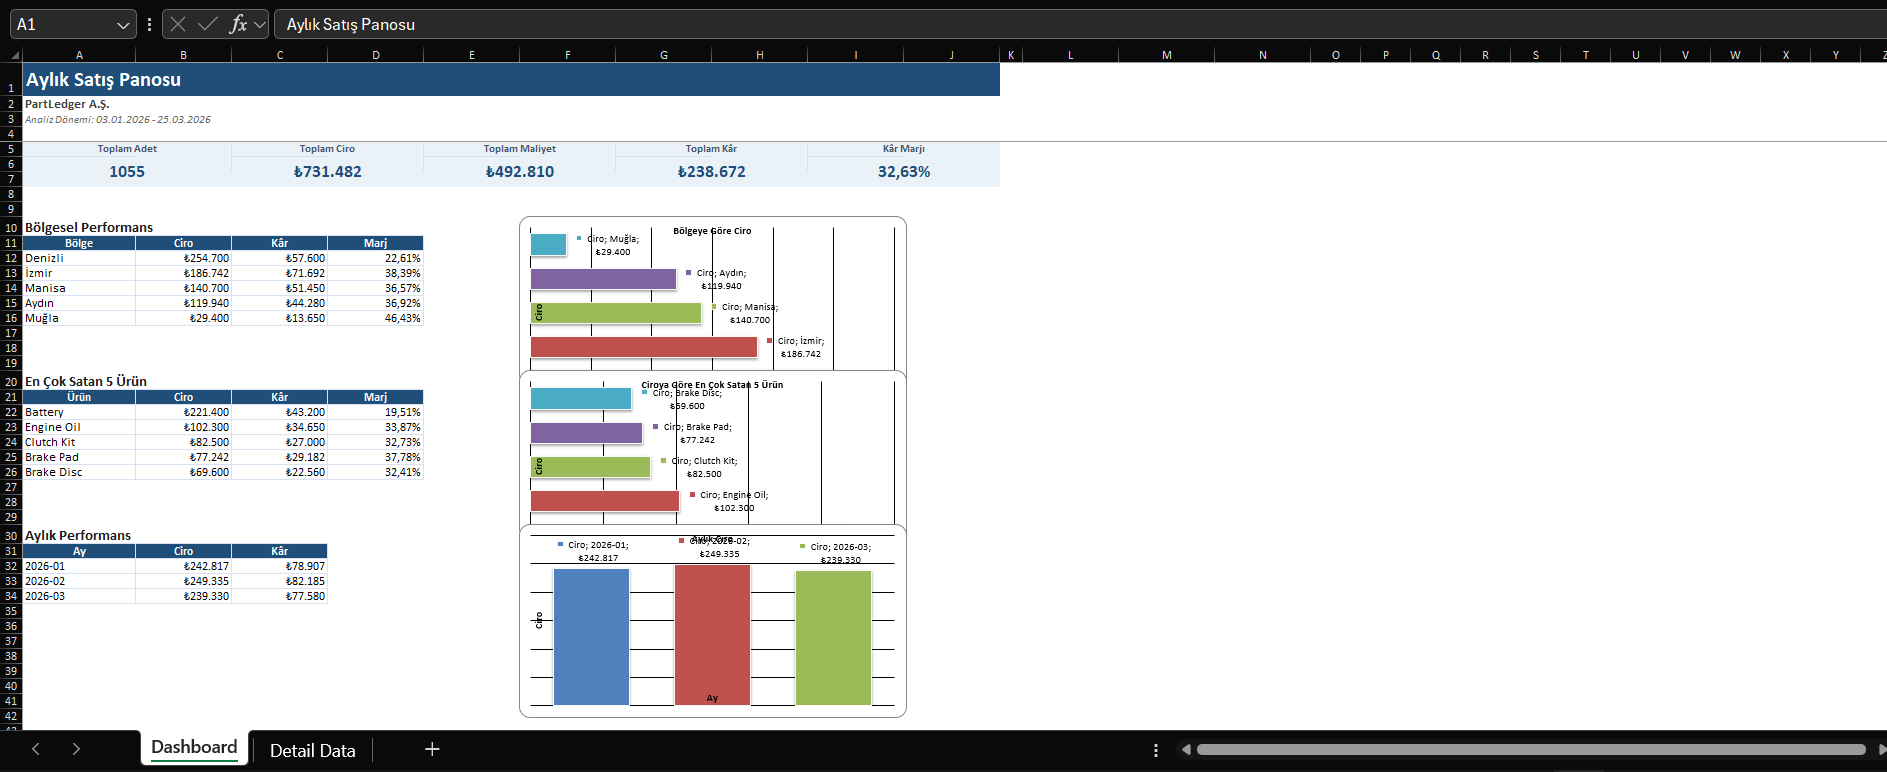
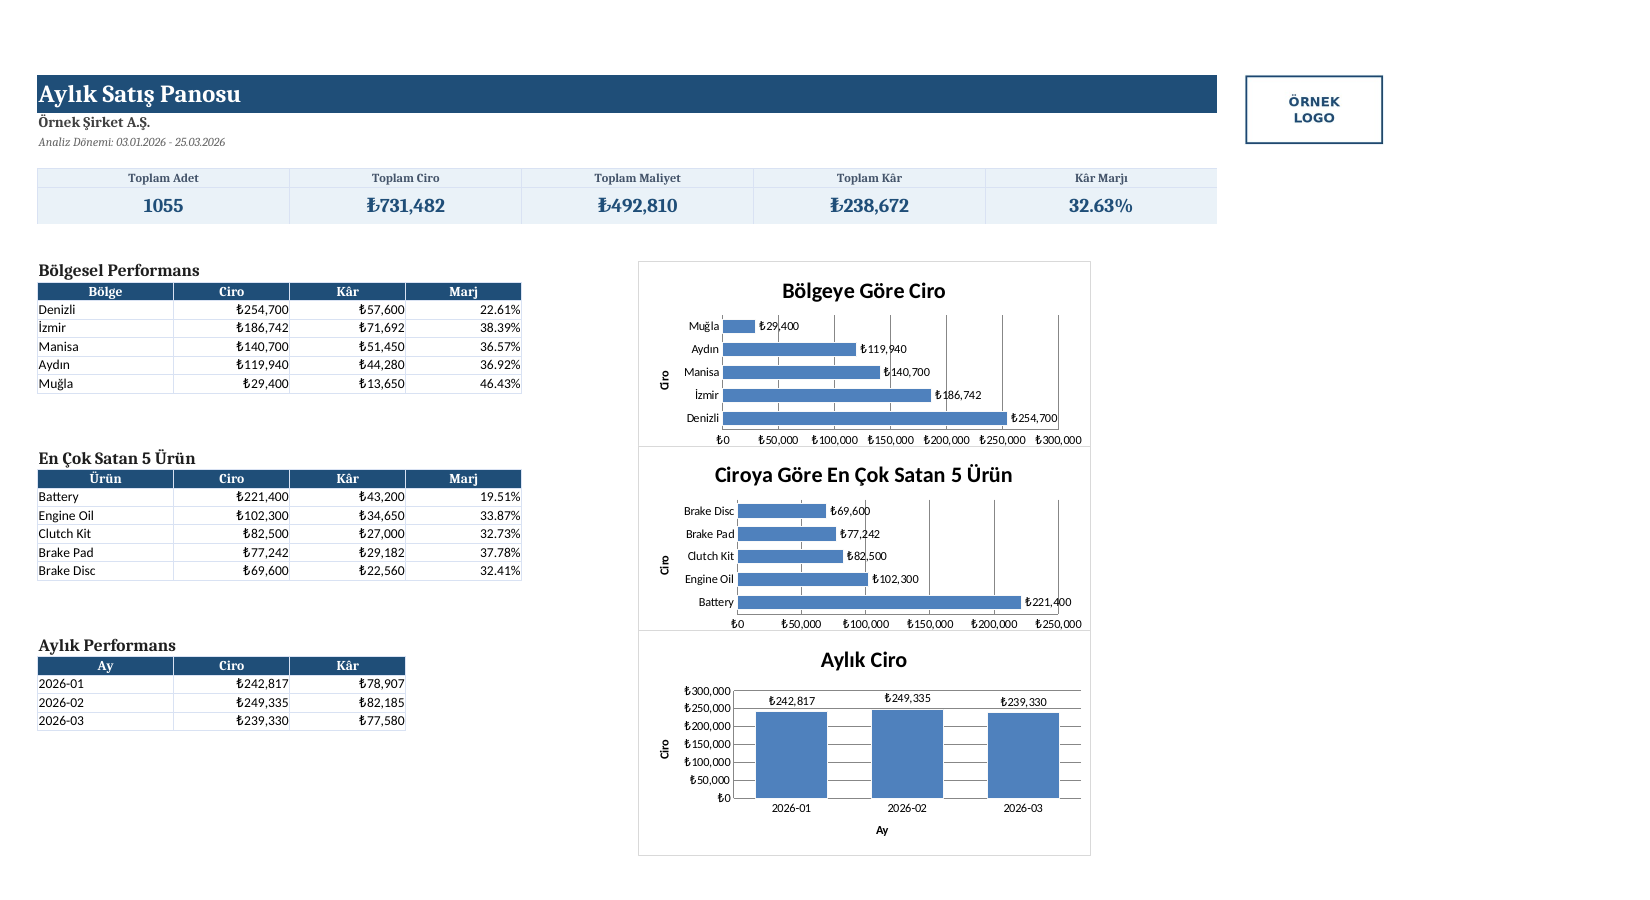
fix: Excel grafiklerindeki tasan veri etiketleri duzeltildi, dashboard gorseli guncellendi

diff --git a/src/report_generator.py b/src/report_generator.py
@@ -123,6 +123,7 @@ def generate_report(
             if "Quantity" not in key:
                 value_cell_obj.number_format = f'{config["currency"]}#,##0'
 
+    # --- BÖLGESEL PERFORMANS ---
     region_analysis = region_summary.sort_values("Revenue", ascending=False).reset_index(drop=True)
 
     sheet["A10"] = "Bölgesel Performans"
@@ -168,11 +169,18 @@ def generate_report(
     region_chart.width = 13
     region_chart.height = 6.5
     region_chart.legend = None
+    
+    # ETIKET DUZELTMELERI
     region_chart.dataLabels = DataLabelList()
     region_chart.dataLabels.showVal = True
+    region_chart.dataLabels.showSerName = False
+    region_chart.dataLabels.showCatName = False
+    region_chart.dataLabels.showLegendKey = False
+    
     region_chart.gapWidth = 60
     sheet.add_chart(region_chart, "F10")
 
+    # --- EN ÇOK SATAN 5 ÜRÜN ---
     product_analysis = product_summary.sort_values("Revenue", ascending=False).head(5).reset_index(drop=True)
 
     sheet["A20"] = "En Çok Satan 5 Ürün"
@@ -217,11 +225,18 @@ def generate_report(
     product_chart.width = 13
     product_chart.height = 6.5
     product_chart.legend = None
+    
+    # ETIKET DUZELTMELERI
     product_chart.dataLabels = DataLabelList()
     product_chart.dataLabels.showVal = True
+    product_chart.dataLabels.showSerName = False
+    product_chart.dataLabels.showCatName = False
+    product_chart.dataLabels.showLegendKey = False
+    
     product_chart.gapWidth = 60
     sheet.add_chart(product_chart, "F20")
 
+    # --- AYLIK PERFORMANS ---
     monthly_analysis = monthly_summary.sort_values("Month").reset_index(drop=True)
 
     sheet["A30"] = "Aylık Performans"
@@ -264,12 +279,19 @@ def generate_report(
     monthly_chart.width = 13
     monthly_chart.height = 6.5
     monthly_chart.legend = None
+    
+    # ETIKET DUZELTMELERI
     monthly_chart.dataLabels = DataLabelList()
     monthly_chart.dataLabels.showVal = True
+    monthly_chart.dataLabels.showSerName = False
+    monthly_chart.dataLabels.showCatName = False
+    monthly_chart.dataLabels.showLegendKey = False
+    
     monthly_chart.gapWidth = 60
     monthly_chart.y_axis.scaling.min = 0
     sheet.add_chart(monthly_chart, "F30")
 
+    # --- DETAIL DATA (HAM VERİ) SEKMESİ ---
     detail_sheet = workbook.create_sheet("Detail Data")
     detail_sheet.sheet_view.showGridLines = False
     detail_sheet.freeze_panes = "A2"
@@ -290,7 +312,6 @@ def generate_report(
         for row_index in range(2, detail_sheet.max_row + 1):
             detail_sheet[f"{date_letter}{row_index}"].number_format = "dd.mm.yyyy"
             
-    # YENİ EKLENEN PARA BİRİMİ FORMATI
     currency_columns = ["UnitPrice", "UnitCost", "Revenue", "Profit"]
     for col_idx, header_cell in enumerate(detail_sheet[1], start=1):
         if header_cell.value in currency_columns:
@@ -310,6 +331,7 @@ def generate_report(
 
     detail_sheet.sheet_view.zoomScale = 90
 
+    # --- SAYFA VE YAZDIRMA AYARLARI ---
     sheet.print_area = "A1:N53"
     sheet.page_setup.orientation = "landscape"
     sheet.page_setup.fitToWidth = 1
